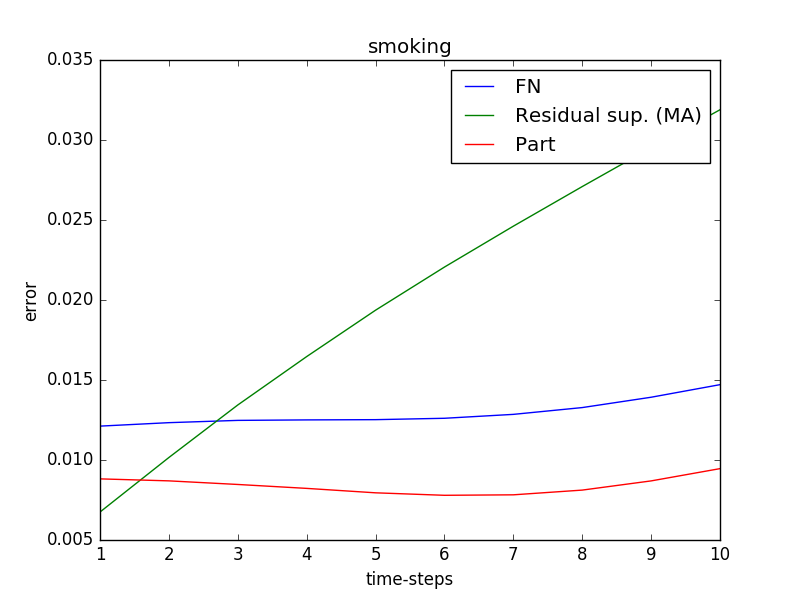
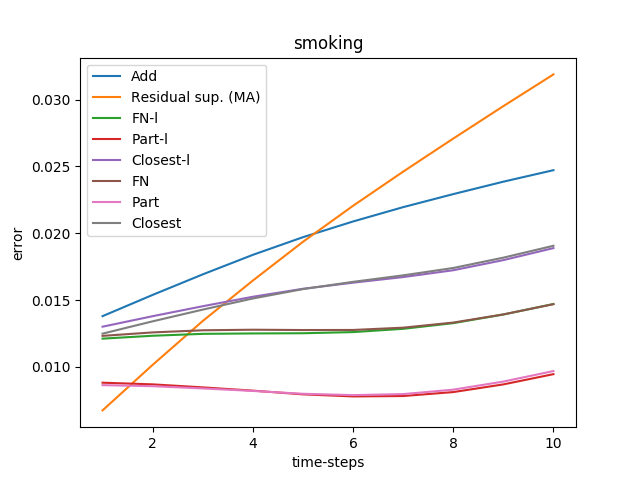
r-add

diff --git a/RNN/R_Add_RNN.py b/RNN/R_Add_RNN.py
@@ -1,0 +1,210 @@
+import matplotlib
+matplotlib.use('Agg')
+
+import numpy as np
+from itertools import tee
+from sklearn import cross_validation
+from keras.layers import Input, RepeatVector, Lambda, concatenate, Dense, Add
+from keras.models import Model
+from keras.optimizers import RMSprop
+import keras.backend as K
+
+from utils import parser, image, embedding_plotter, recorder, metrics, metric_baselines, association_evaluation
+from Forward import NN
+
+LEARNING_RATE = 0.001
+NAME = 'R_A_LSTM'
+USE_GRU = True
+if USE_GRU:
+	from keras.layers import GRU
+	NAME = 'R_A_GRU'
+else:
+	from keras.layers import LSTM
+
+class R_A_LSTM:
+	def __init__(self, args):
+		self.autoencoder = None
+		self.encoder = None
+		self.decoder = None
+
+		self.epochs = args['epochs']
+		self.batch_size = args['batch_size']
+		print 'batch size -------------- %d' % (self.batch_size)
+		self.periods = args['periods'] if 'periods' in args else 10
+		self.cv_splits = args['cv_splits'] if 'cv_splits' in args else 0.2
+
+		self.timesteps = args['timesteps'] if 'timesteps' in args else 5
+		self.label_dim = args['label_dim']
+		self.labels = args['labels']
+		print self.labels, self.label_dim
+		self.input_dim = args['input_dim'] + self.label_dim
+		self.output_dim = args['output_dim'] + self.label_dim
+		self.motion_dim = args['input_dim']
+		self.hierarchies = args['hierarchies'] if 'hierarchies' in args else [9,14,24]
+		self.latent_dim = args['latent_dim'] if 'latent_dim' in args else (args['input_dim']+args['output_dim'])/2
+		self.trained = args['mode'] == 'sample' if 'mode' in args else False
+		self.load_path = args['load_path']
+		self.save_path = args['save_path']
+		self.log_path = args['log_path']
+
+		self.joint_number = args['input_dim']/3
+
+		self.MODEL_CODE = metrics.L_LSTM
+		self.NAME = NAME
+		# self.history = recorder.LossHistory()
+
+	def make_model(self):
+		inputs = Input(shape=(self.timesteps, self.input_dim))
+		encoded = GRU(self.latent_dim, return_sequences=True)(inputs)
+
+		z = Input(shape=(self.latent_dim,))
+		decode_pose = Dense(self.motion_dim, activation='tanh')
+		decode_name = Dense(self.label_dim, activation='relu')
+		decode_repete = RepeatVector(self.timesteps-1)
+		decode_residual = GRU(self.output_dim, return_sequences=True)
+
+		decoded = [None]*len(self.hierarchies)
+		residual = [None]*len(self.hierarchies)
+
+		def residual_add(frame, res):
+			motion = [None]*self.timesteps
+			motion[0] = frame
+			for i in range(1,self.timesteps):
+				res_i = Lambda(lambda x: x[:,i-1], output_shape=(self.output_dim,))(res)
+				motion[i] = Add()([motion[i-1], res_i])
+			return concatenate(motion, axis=0)
+
+		for i, h in enumerate(self.hierarchies):
+			e = Lambda(lambda x: x[:,h], output_shape=(self.latent_dim,))(encoded)
+			decoded[i] = concatenate([decode_pose(e), decode_name(e)], axis=1)
+			residual[i] = decode_repete(e)
+			residual[i] = decode_residual(residual[i])
+			decoded[i] = residual_add(decoded[i], residual[i])
+
+		decoded = concatenate(decoded, axis=1)
+		residual = concatenate(residual, axis=1)
+
+		decoded_ = concatenate([decode_pose(z), decode_name(z)], axis=1)
+		residual_ = decode_repete(z)
+		residual_ = decode_residual(residual_)
+		decoded_ = residual_add(decoded_, residual_)
+
+		def customLoss(yTrue, yPred):
+			yt = K.reshape(yTrue[:,:,-self.label_dim:], (-1, self.timesteps, self.timesteps, self.label_dim))
+			yp = K.reshape(yPred[:,:,-self.label_dim:], (-1, self.timesteps, self.timesteps, self.label_dim))
+			loss = 0
+			yTrue = K.reshape(yTrue[:,:,:-self.label_dim], (-1, self.timesteps, self.timesteps, self.timesteps/3, 3))
+			yPred = K.reshape(yPred[:,:,:-self.label_dim], (-1, self.timesteps, self.timesteps, self.timesteps/3, 3))
+			# loss += K.mean(K.sqrt(K.sum(K.square(yTrue-yPred), axis=-1)))
+			# loss += K.mean(K.sqrt(K.sum(K.square(yt - yp), axis=-1)))/self.timesteps
+			loss += K.mean(K.sqrt(K.sum(K.square(yTrue-yPred), axis=-1))) + K.mean(K.abs(yt-yp))/self.timesteps
+			return loss
+
+		self.encoder = Model(inputs, encoded)
+		self.decoder = Model(z, decoded_)
+		self.autoencoder = Model(inputs, decoded)
+		opt = RMSprop(lr=LEARNING_RATE)
+		self.autoencoder.compile(optimizer=opt, loss=customLoss)
+
+		self.autoencoder.summary()
+		self.encoder.summary()
+		self.decoder.summary()
+
+
+	def load(self):
+		self.make_model()
+		if self.trained:
+			self.autoencoder.load_weights(self.load_path)
+			print 'loaded'
+			return True
+		return False
+
+	#def __alter_y(self, y):
+	#	# return y
+	#	new_y = [None]*len(self.hierarchies)
+	#	for i, h in enumerate(self.hierarchies):
+	#		new_y[i] = np.copy(y)
+	#	return np.concatenate(new_y, axis=1)
+
+	def __alter_y(self, y):
+		y = np.repeat(y, len(self.hierarchies), axis=0)
+		y = np.reshape(y, (-1, len(self.hierarchies), self.timesteps, y.shape[-1]))
+		for i, h in enumerate(self.hierarchies):
+			for j in range(h+1, self.timesteps):
+				y[:,i,j] = y[:,i,h]
+		print y.shape
+		return np.reshape(y, (-1, self.timesteps*len(self.hierarchies), y.shape[-1]))
+
+	def __alter_label(self, x, y):
+		idx = np.random.choice(x.shape[0], x.shape[0]/2)
+		x[idx,:,-self.label_dim:] = 0
+		y[idx,:,-self.label_dim:] = 0
+		return x, y
+
+	def run(self, data_iterator, valid_data):
+		model_vars = [NAME, self.latent_dim, self.timesteps, self.batch_size]
+		if not self.load():
+			# from keras.utils import plot_model
+			# plot_model(self.autoencoder, to_file='model.png')
+			loss = 10000
+			iter1, iter2 = tee(data_iterator)
+			for i in range(self.periods):
+				for x, y in iter1:
+					x_data, y_data = self.__alter_label(x, y)
+					x_train, x_test, y_train, y_test = cross_validation.train_test_split(x_data, y_data, test_size=self.cv_splits)
+					y_train = self.__alter_y(y_train)
+					y_test = self.__alter_y(y_test)
+					# print np.sum(y_train[:,0,-self.label_dim:], axis=0)
+					history = self.autoencoder.fit(x_train, y_train,
+								shuffle=True,
+								epochs=self.epochs,
+								batch_size=self.batch_size,
+								validation_data=(x_test, y_test))
+								# callbacks=[self.history])
+
+					new_loss = np.mean(history.history['loss'])
+					if new_loss < loss:
+						print 'Saved model - ', loss
+						loss = new_loss
+						#y_test_decoded = self.autoencoder.predict(x_test[:1])
+						#y_test_decoded = np.reshape(y_test_decoded, (len(self.hierarchies), self.timesteps, -1))
+						#image.plot_poses(x_test[:1,:,:-self.label_dim], y_test_decoded[:,:,:-self.label_dim])
+						# image.plot_hierarchies(y_test_orig[:,:,:-self.label_dim], y_test_decoded[:,:,:-self.label_dim])
+						self.autoencoder.save_weights(self.save_path, overwrite=True)
+						rand_idx = np.random.choice(x_test.shape[0], 25, replace=False)
+						metrics.validate(x_test[rand_idx], self, '../new_out/validate-residual.txt')
+
+					del x_train, x_test, y_train, y_test
+				iter1, iter2 = tee(iter2)
+
+			# self.history.record(self.log_path, model_vars)
+			data_iterator = iter2
+
+		# metric_baselines.compare(self)
+		# metrics.gen_long_sequence(valid_data, self)
+
+		# embedding_plotter.see_hierarchical_embedding(self.encoder, self.decoder, data_iterator, valid_data, model_vars, self.label_dim)
+		# iter1, iter2 = tee(data_iterator)
+		# metrics.validate(valid_data, self)
+
+		nn = NN.Forward_NN({'input_dim':self.latent_dim, 'output_dim':self.latent_dim, 'mode':'sample'})
+		nn.run(None)
+		# metrics.plot_metrics(self, data_iterator, valid_data, nn)
+		# association_evaluation.plot_best_distance_function(self, valid_data, data_iterator)
+		# association_evaluation.eval_generation(self, valid_data, data_iterator)
+		# association_evaluation.eval_center(self, valid_data, 'sitting')
+		# association_evaluation.transfer_motion(self, valid_data, 'sitting', 'walking', data_iterator)
+		# association_evaluation.plot_transfer_motion(self, '../new_out/transfer_motion-sitting-to-greeting-scores.npy')
+		# association_evaluation.plot_transfer_motion(self, '../new_out/transfer_motion-sitting-to-walking-scores.npy')
+		# association_evaluation.eval_generation_from_label(self, data_iterator)
+		# association_evaluation.plot_add(self, data_iterator)
+		# metrics.plot_metrics_labels(self, data_iterator, valid_data)
+		metric_baselines.compare_label_embedding(self, nn, data_iterator)
+		# association_evaluation.eval_distance(self, valid_data)
+		# evaluate.eval_pattern_reconstruction(self.encoder, self.decoder, iter2)
+
+if __name__ == '__main__':
+	data_iterator, valid_data, config = parser.get_parse(NAME, labels=True)
+	ae = R_A_LSTM(config)
+	ae.run(data_iterator, valid_data)
+
